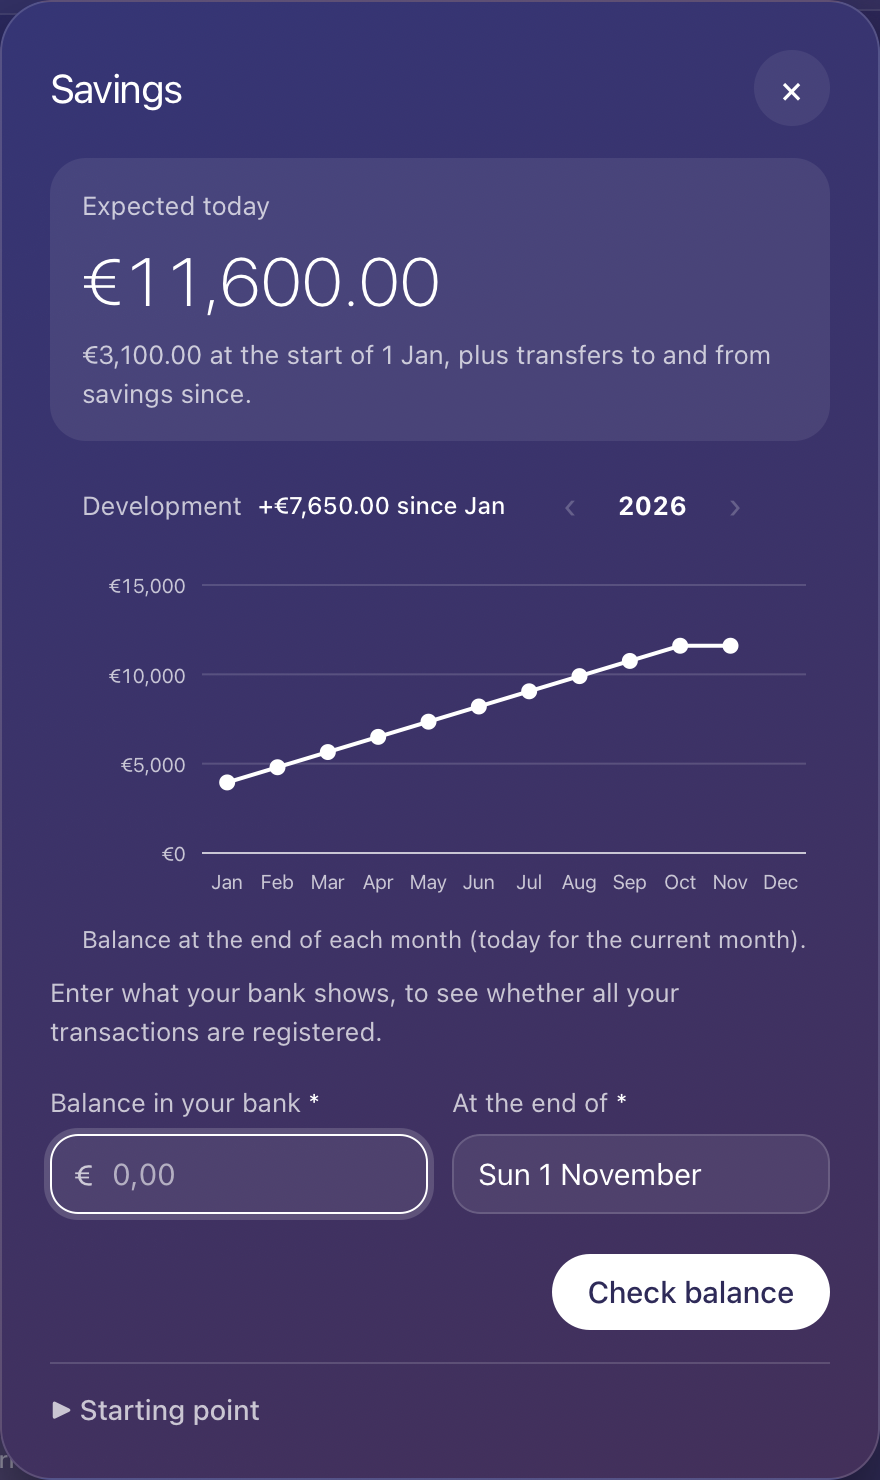
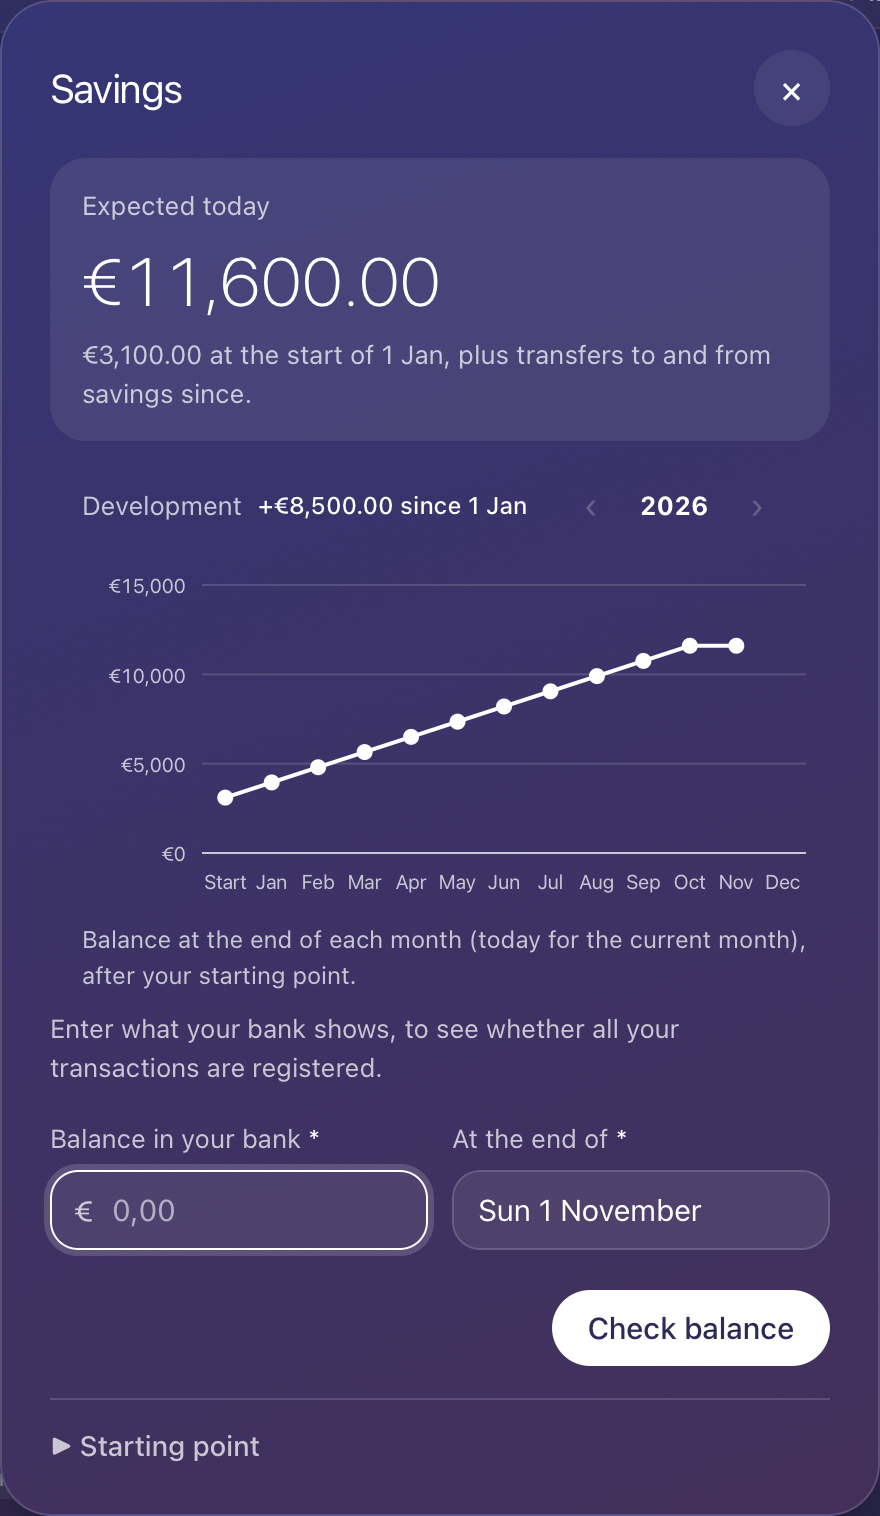
Show the starting point in the balance chart

diff --git a/static/js/accounts.js b/static/js/accounts.js
@@ -69,14 +69,19 @@ function renderDialog() {
     </li>`).join("");
 }
 
-// End-of-month balance through a year. Months before tracking started (or still to come) stay empty.
+// End-of-month balance through a year, from the starting point on. Months still to come stay empty.
 async function renderHistory() {
   const data = await api(`/api/balance-history?account=${account}&year=${historyYear}`);
   $("#hist-year").textContent = historyYear;
   $("#hist-next").disabled = historyYear >= new Date().getFullYear();
   // Nothing to show before the year tracking started.
   $("#hist-prev").disabled = historyYear <= Number((balances[account].start_date || String(historyYear)).slice(0, 4));
-  const months = Array.from({ length: 12 }, (_, i) => `${historyYear}-${String(i + 1).padStart(2, "0")}`);
+  // The axis begins at the starting point, which sits in the month before it began (maybe last December).
+  const startMonth = data.months.find((d) => d.start)?.month;
+  const months = Array.from({ length: 12 }, (_, i) => `${historyYear}-${String(i + 1).padStart(2, "0")}`)
+    .filter((m) => !startMonth || m > startMonth);
+  if (startMonth) months.unshift(startMonth);
+  const startDate = shortDate(balances[account].start_date);
   const values = months.map((m) => data.months.find((d) => d.month === m)?.balance ?? null);
   const tracked = values.map((v, i) => ({ v, i })).filter((p) => p.v !== null);
   if (!tracked.length) {
@@ -87,17 +92,20 @@ async function renderHistory() {
   }
   lineChart($("#hist-plot"), months, [{ name: `${ACCOUNTS[account]} balance`, values, cls: "line" }], {
     height: 170, ticks: 3,
+    label: (i) => (months[i] === startMonth ? "Start" : monthOnly(months[i])),
     tooltip: (i) => {
+      if (months[i] === startMonth) return `<b>Starting point</b><span>${money(values[i])}</span><span class="muted">At the start of ${startDate}</span>`;
       const before = values[i - 1] ?? null;
       return `<b>${monthName(months[i])}</b><span>${money(values[i])}</span>${before === null ? ""
-        : `<span class="muted">${values[i] >= before ? "+" : "−"}${money(Math.abs(values[i] - before))} vs ${monthOnly(months[i - 1])}</span>`}`;
+        : `<span class="muted">${values[i] >= before ? "+" : "−"}${money(Math.abs(values[i] - before))} vs ${months[i - 1] === startMonth ? "the start" : monthOnly(months[i - 1])}</span>`}`;
     },
   });
   const first = tracked[0], last = tracked.at(-1), change = last.v - first.v;
-  $("#hist-change").textContent = tracked.length > 1 ? `${change >= 0 ? "+" : "−"}${money(Math.abs(change))} since ${monthOnly(months[first.i])}` : "";
+  $("#hist-change").textContent = tracked.length > 1 ? `${change >= 0 ? "+" : "−"}${money(Math.abs(change))} since ${months[first.i] === startMonth ? startDate : monthOnly(months[first.i])}` : "";
   $("#hist-change").className = `hist-change ${change < 0 ? "down" : ""}`;
   $("#hist-note").textContent = tracked.length === 1
-    ? `Tracked since ${shortDate(balances[account].start_date)} — the line grows as months pass.` : "Balance at the end of each month (today for the current month).";
+    ? `Tracked since ${startDate} — the line grows as months pass.`
+    : `Balance at the end of each month (today for the current month)${startMonth ? ", after your starting point" : ""}.`;
 }
 $("#hist-prev").onclick = () => { historyYear--; renderHistory(); };
 $("#hist-next").onclick = () => { historyYear++; renderHistory(); };

diff --git a/static/js/chart.js b/static/js/chart.js
@@ -4,8 +4,8 @@ import { money, monthOnly } from "./format.js";
 
 // series: [{ name, values (cents, null = no value), cls, dots = true, against }]
 //   against: values of another series; the line is drawn green above it and red below.
-// options: height, ticks (number of steps), includeZero, tooltip(i) -> html
-export function lineChart(el, months, series, { height = 220, ticks: steps = 4, includeZero = false, tooltip } = {}) {
+// options: height, ticks (number of steps), includeZero, tooltip(i) -> html, label(i) -> x-axis text
+export function lineChart(el, months, series, { height = 220, ticks: steps = 4, includeZero = false, tooltip, label = (i) => monthOnly(months[i]) } = {}) {
   const W = el.clientWidth || 600, H = height, pad = { l: 60, r: 12, t: 12, b: 24 };
   const all = series.flatMap((s) => s.values).filter((v) => v !== null);
   if (!all.length) return (el.innerHTML = "");
@@ -25,7 +25,7 @@ export function lineChart(el, months, series, { height = 220, ticks: steps = 4, 
   el.innerHTML = `<svg width="${W}" height="${H}" role="img" aria-label="${series.map((s) => s.name).join(" and ")} per month">
     ${ticks.map((v) => `<line class="grid ${v === 0 ? "zero" : ""}" x1="${pad.l}" x2="${W - pad.r}" y1="${y(v)}" y2="${y(v)}"/>
       <text class="axis" x="${pad.l - 8}" y="${y(v) + 4}" text-anchor="end">${money(v, { whole: true })}</text>`).join("")}
-    ${months.map((m, i) => `<text class="axis" x="${x(i)}" y="${H - 6}" text-anchor="middle">${monthOnly(m)}</text>`).join("")}
+    ${months.map((_, i) => `<text class="axis" x="${x(i)}" y="${H - 6}" text-anchor="middle">${label(i)}</text>`).join("")}
     <line class="crosshair" x1="0" x2="0" y1="${pad.t}" y2="${H - pad.b}" hidden/>
     ${series.map((s) => {
       const d = path(s.values);

diff --git a/app/accounts.py b/app/accounts.py
@@ -62,7 +62,8 @@ def balance(conn, account):
 
 def history(conn, account, year):
     """Expected balance at the end of each month of `year` (today for the current
-    month; nothing for future months)."""
+    month; nothing for future months). In the year tracking started, the starting point
+    comes first, in the month before it began."""
     now = today()
     months = []
     for m in range(1, 13):
@@ -71,4 +72,8 @@ def history(conn, account, year):
             break
         end = (date(year + m // 12, m % 12 + 1, 1) - timedelta(days=1)).isoformat()
         months.append({"month": first.isoformat()[:7], "balance": expected_balance(conn, account, min(end, now))})
+    start, start_date = starting_point(conn, account)
+    if start is not None and start_date[:4] == str(year) and start_date <= now:
+        before = (date.fromisoformat(start_date).replace(day=1) - timedelta(days=1)).isoformat()[:7]
+        months = [{"month": before, "balance": start, "start": True}] + [m for m in months if m["month"] > before]
     return {"account": account, "year": year, "months": months}
